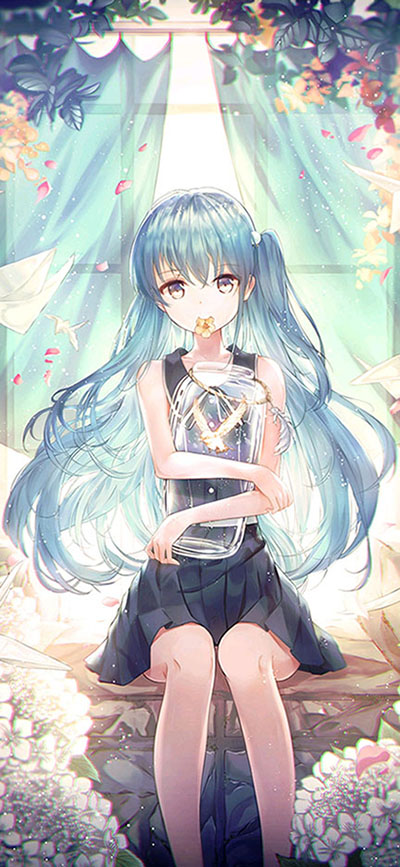
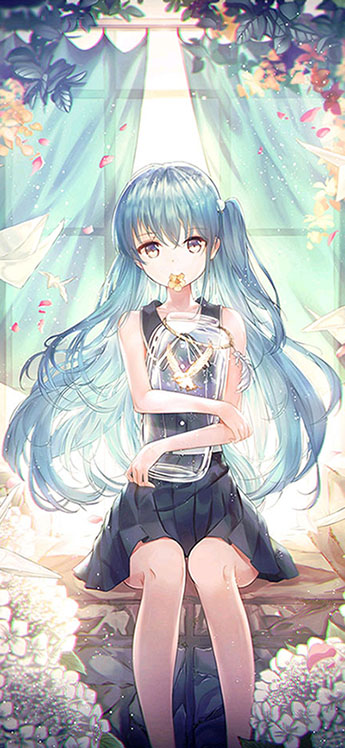
Site updated: 2021-02-20 12:11:56

diff --git a/index.html b/index.html
@@ -250,7 +250,7 @@
             <p style="text-align: center;">
                 <a href="/2021/02/18/%EF%BD%80%E3%83%BB%CF%89%E3%83%BB%C2%B4/">
                     
-                    <img src="/imgs/preview/preview3.jpg" alt="(｀・ω・´)">
+                    <img src="/imgs/preview/preview1.jpg" alt="(｀・ω・´)">
                 </a>
             </p>
         </div>
